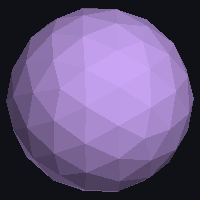
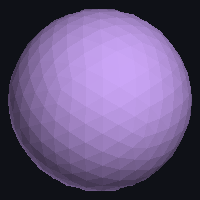
测地球频率加倍 f:3→6: 180→720 球面三角形(弦误差1/4); 精确360不在测地族20f²内且剖二生T型接缝, 故取频率加倍; 卡片/缩略图/图鉴同步

diff --git a/gallery.py b/gallery.py
@@ -302,9 +302,9 @@ CARDS = {
     'phyperboloid2': {'formula': '$(\\sinh v\\cos u,\\ \\sinh v\\sin u,\\ \\cosh v)$',
                       'props': ['上叶（下叶对称不连通）', '常数负曲率度量载体'],
                       'trivia': '双曲几何的超球面模型（Minkowski 模型）就是这张叶配诱导度量。'},
-    'geodesic': {'formula': '二十面体细分 freq=3 → 投影球面',
-                 'props': ['180 个球面三角形 · 顶点精确在球上', '等价球面点集凸包 / 3D Delaunay'],
-                 'trivia': 'Fuller 测地穹顶：三角剖分路线的代表，频率越高越逼近光滑球。'},
+    'geodesic': {'formula': '二十面体细分 freq=6 → 投影球面',
+                 'props': ['720 个球面三角形 · 顶点精确在球上', '测地族计数 20f²；频率加倍 f:3→6'],
+                 'trivia': 'Fuller 测地穹顶：三角剖分路线的代表；精确 360 面不在 20f² 族内且剖二会产生 T 型接缝，故“加倍”取频率加倍。'},
     'bezier_tri': {'formula': '$B(u,v,w)=\\sum_{i+j+k=3}\\frac{3!}{i!j!k!}u^iv^jw^kP_{ijk}$',
                    'props': ['三角参数域 · 重心格点剖分', 'CAD 三角 Bézier 片'],
                    'trivia': '参数域非矩形时 quad 网格失效——先剖分域再求值是三角片标准做法。'},

diff --git a/curve_library.py b/curve_library.py
@@ -356,8 +356,8 @@ for _k in _POLY_FACES:
 # 三角剖分层（显示管线②级）: 生成器产三角面片, 复用 'faces' 机制（见 trisurf.py）
 _GEN_SPECS = {
     'geodesic': {'name': '测地球 (Fuller 三角剖分球)', 'category': '三角剖分曲面',
-                 'gen': 'geodesic', 'freq': 3, 'R': 2.0,
-                 'desc': '二十面体细分 freq=3 再投影球面：180 个球面三角形，顶点精确在球上；等价球面点集凸包/3D Delaunay'},
+                 'gen': 'geodesic', 'freq': 6, 'R': 2.0,
+                 'desc': '二十面体细分 freq=6 再投影球面：720 个球面三角形（频率加倍 f:3→6，弦误差 1/4），顶点精确在球上；测地族计数 20f²，等价球面点集凸包/3D Delaunay'},
     'bezier_tri': {'name': '三次三角 Bézier 片', 'category': '三角剖分曲面',
                    'gen': 'bezier_tri', 'm': 22,
                    'desc': '参数域为三角形（非矩形）→ 重心格点三角剖分后求值；矩形 quad 网格在三角域上不可用'},
